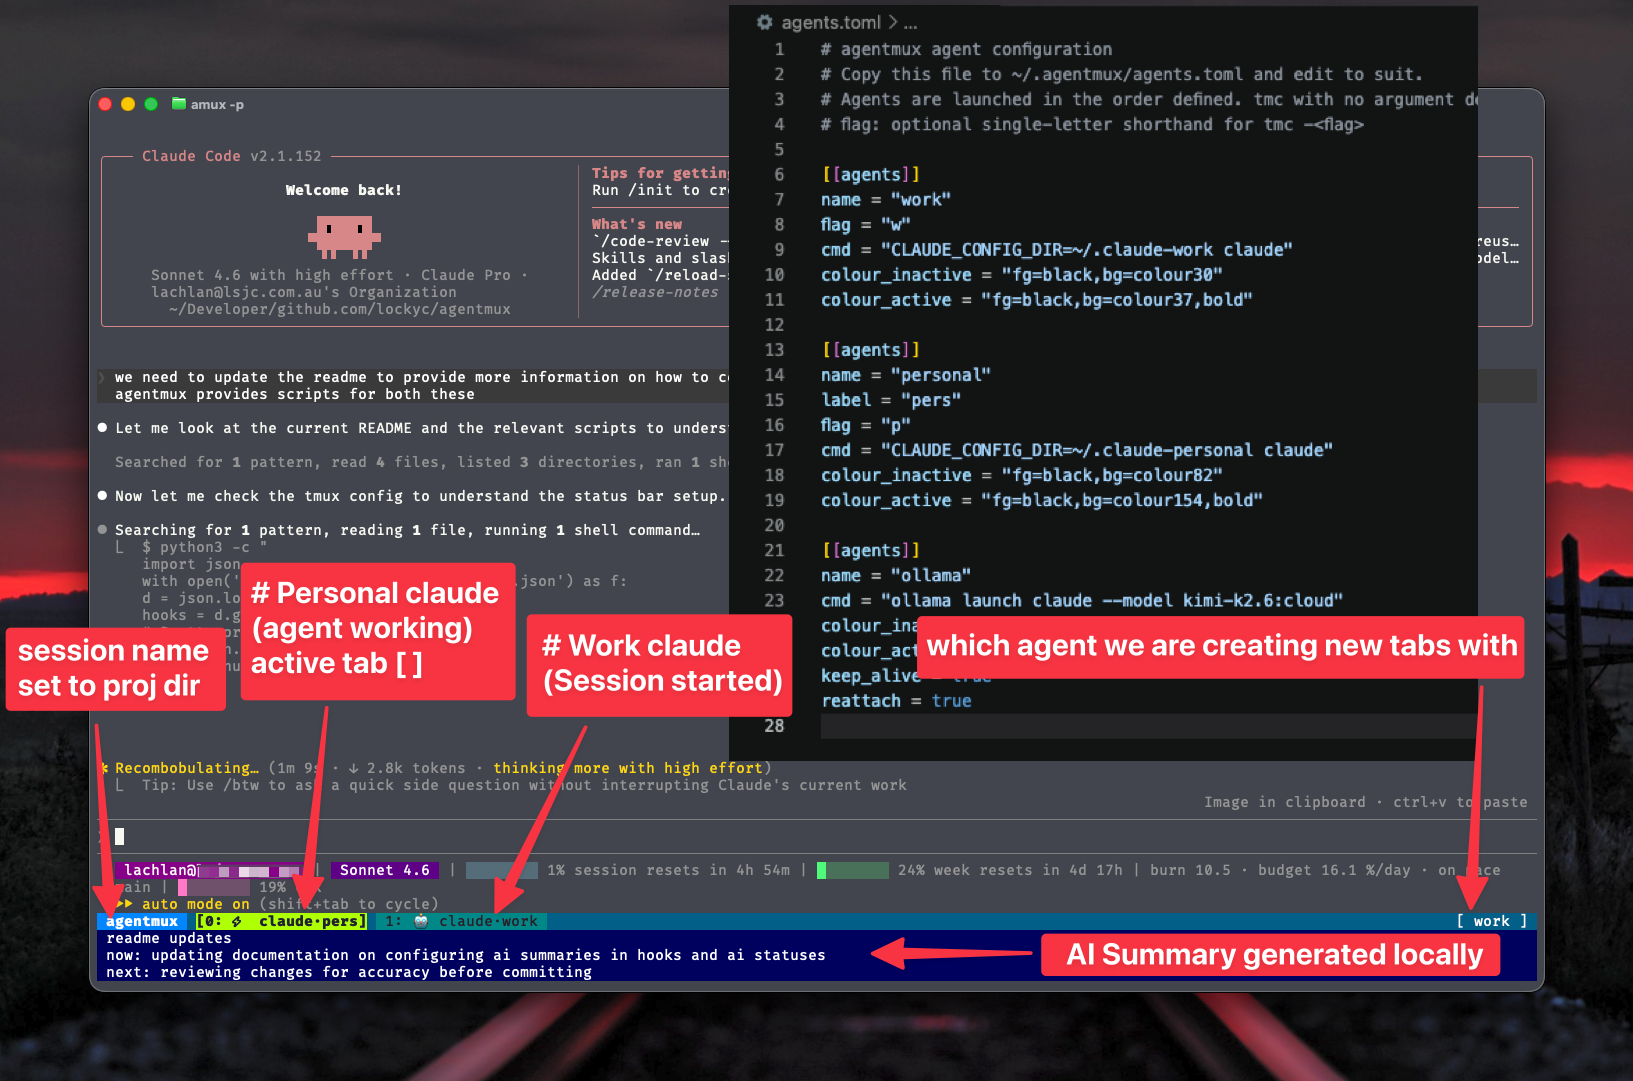
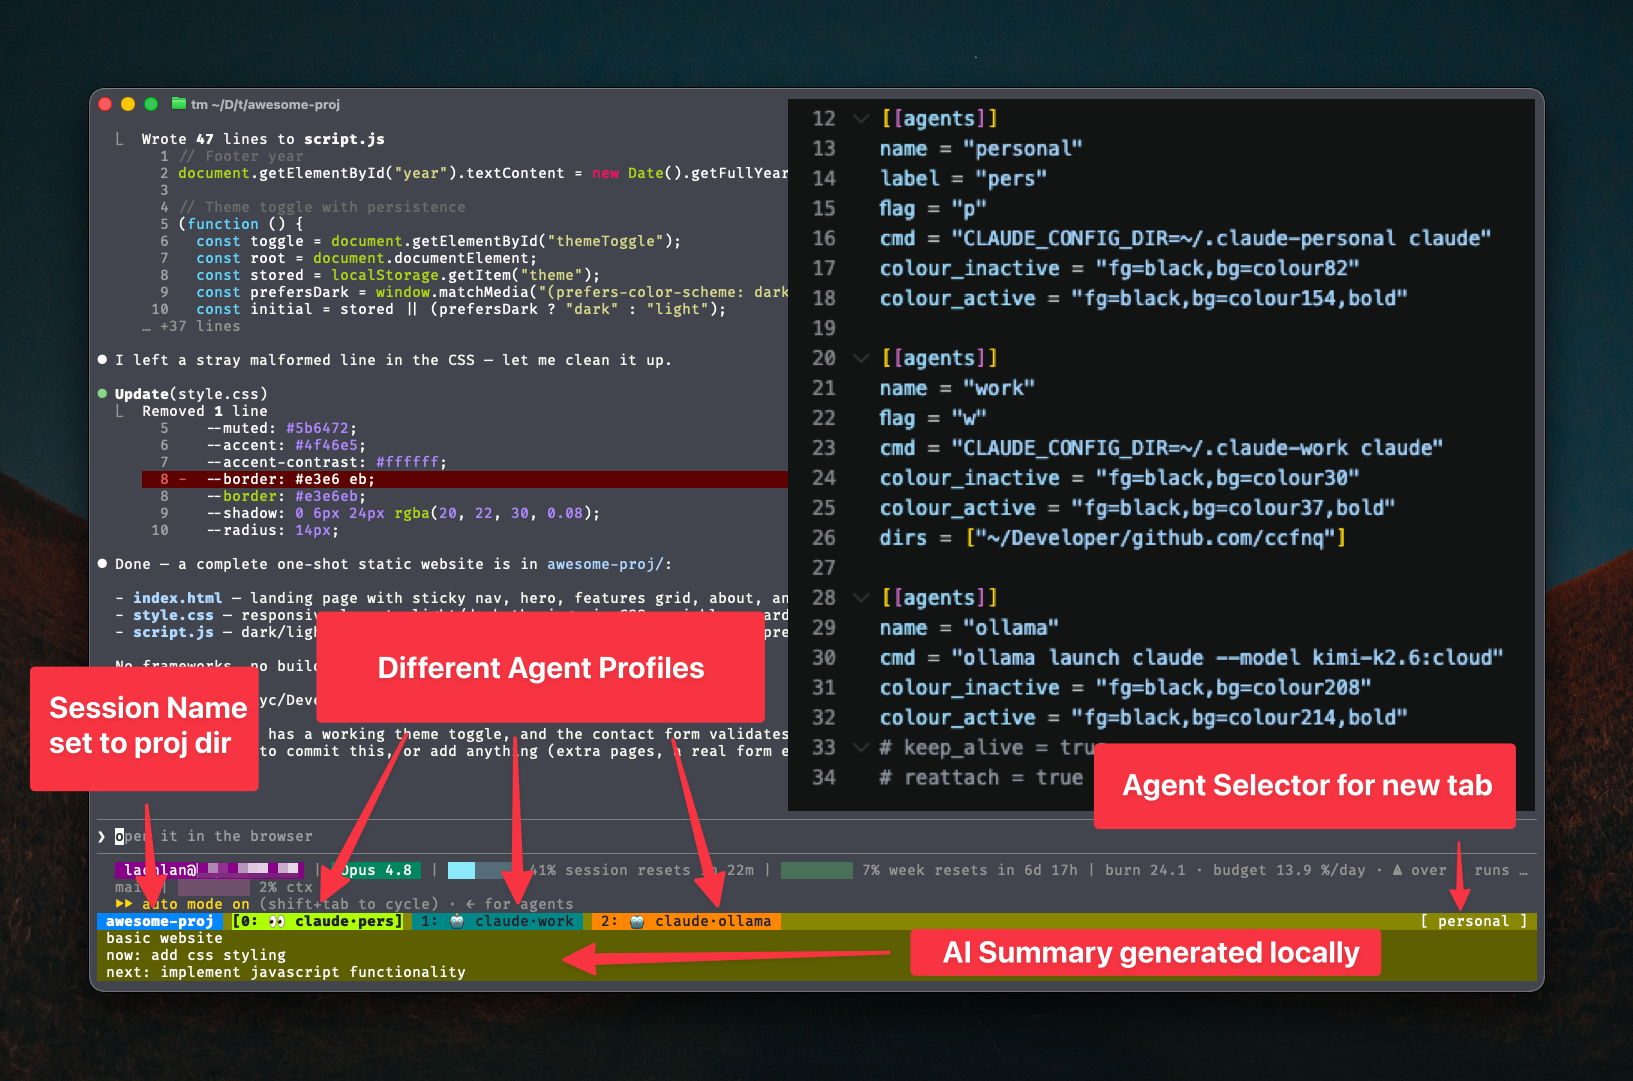
docs(readme): add sidebar overview screenshot; ignore .DS_Store
Update overview.png and add overview-sidebar.png below it in the README.

diff --git a/README.md b/README.md
@@ -4,6 +4,8 @@ Configurable tmux agent launcher. Define AI agents (or any CLI) in TOML; session
 
 ![agentmux overview](docs/overview.png)
 
+![agentmux overview with sidebar](docs/overview-sidebar.png)
+
 ## Install
 
 ### Claude Code (interactive — recommended)
